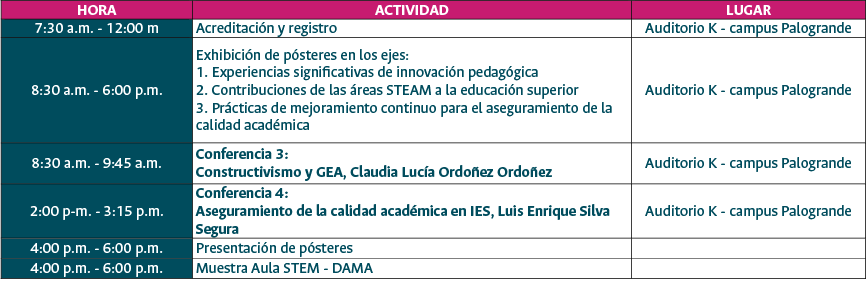
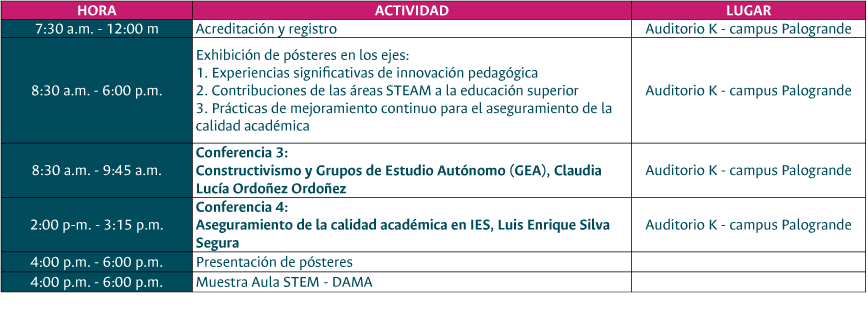
update corrrecciones

diff --git a/index.html b/index.html
@@ -564,7 +564,7 @@
 						<img class="img-circle img-tar-conf" src="images/1-claudia.png" alt="...">
 						<div class="title-head-conf">
 							<h4>Claudia Lucía Ordóñez Ordóñez</h4>
-							<h5>Temática: Constructivismo y GEA</h5>
+							<h5>Temática: Constructivismo y Grupos de Estudio Autónomo (GEA)</h5>
 						</div>
 
 					</div>
@@ -630,7 +630,7 @@
 						<img class="img-circle  img-tar-conf " src="images/4-David.png" alt="...">
 						<div class="title-head-conf">
 							<h4>David Guillermo Bustamante Herrera</h4>
-							<h5>Temática: Neurodidáctica</h5>
+							<h5>Temática: Enseñanza de las áreas STEAM</h5>
 						</div>
 					</div>
 					<div class="caption-conf">
